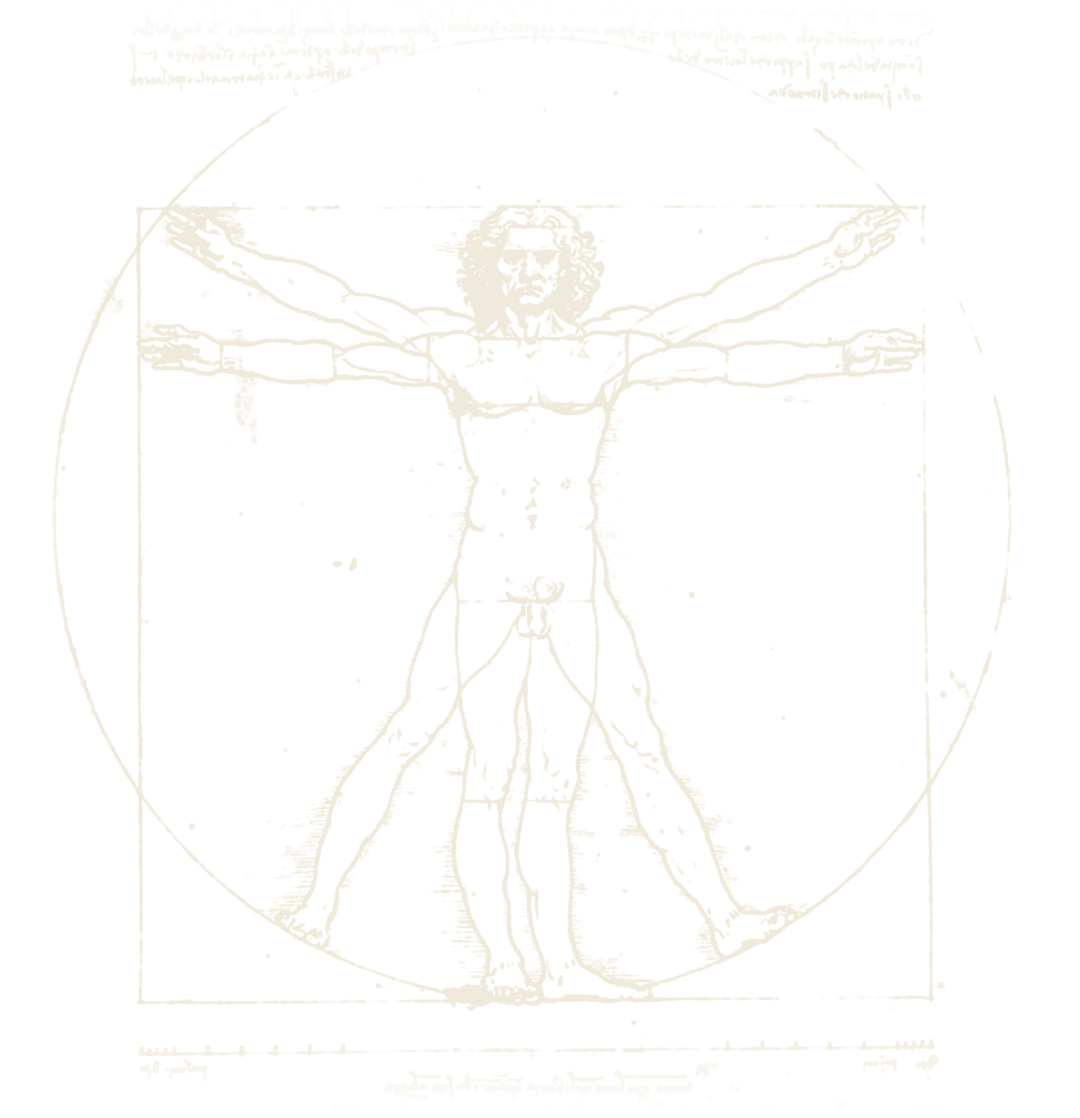
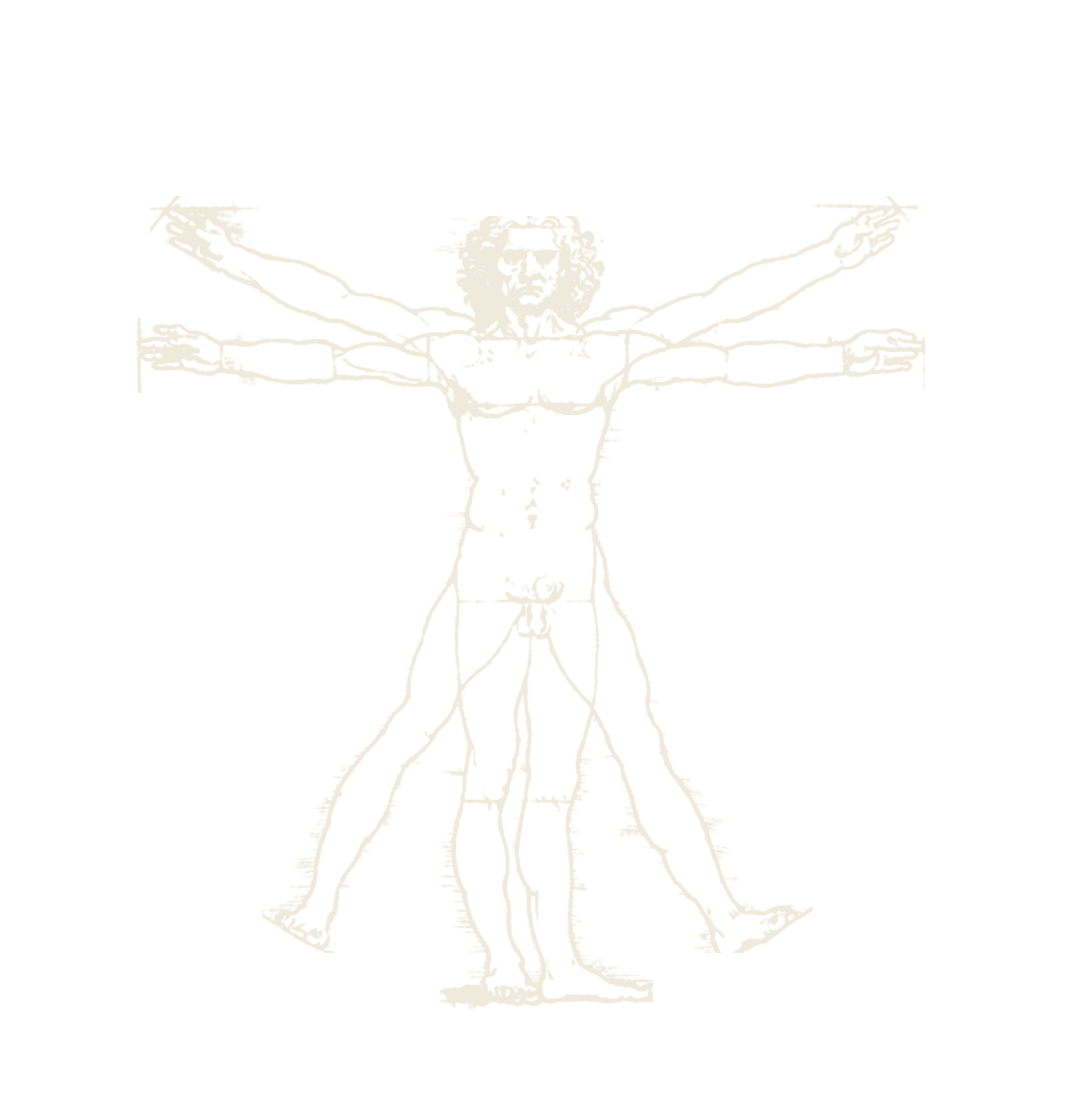
Vitruvian body map cleaned: only the contour lines remain (no paper specks, hatching, script or scale text), the circle and square redrawn as clean hairlines, softer muscle glow
Claude-Session: https://claude.ai/code/session_01PHnae2mAkkwJU61sApCo4y

diff --git a/index.html b/index.html
@@ -373,7 +373,7 @@ textarea.field{padding:12px 14px;min-height:76px;resize:none;line-height:1.4}
 .up,.fs-r span:last-child .up{color:var(--t);font-weight:600;font-size:13px}
 
 /* ---- body ---- */
-.bmap{margin:6px calc(var(--g) * -1) 0;perspective:1400px}
+.bmap{margin:0 calc(var(--g) * -1) -14px;perspective:1400px}
 .vit-in{position:relative;aspect-ratio:1080/1118;will-change:transform}
 .vit.back .vit-in{transform:rotateY(180deg)}
 .vit img{position:absolute;inset:0;width:100%;height:100%;display:block;-webkit-user-select:none;user-select:none;pointer-events:none}
@@ -1956,7 +1956,7 @@ var VM = { front:[
     ["chest", "M456,334 Q492,324 529,338 L529,406 Q492,426 460,406 Z", 1], ["biceps", "M419,333 L338,337 L338,373 L419,367 Z", 1],
     ["forearms", "M336,339 L226,345 L226,371 L336,373 Z", 1], ["abs", "M505,420 H530 V592 L513,586 Q502,500 505,420 Z", 1],
     ["obliques", "M468,415 L503,420 Q500,500 511,586 L478,560 Q470,490 468,415 Z", 1],
-    ["quads", "M466,610 L528,612 L528,790 L490,790 Q470,700 466,610 Z", 1], ["shins", "M492,825 L530,825 L528,960 L502,960 Z", 1] ],
+    ["quads", "M470,622 Q498,612 524,624 Q527,710 518,786 L494,786 Q474,706 470,622 Z", 1], ["shins", "M492,825 L530,825 L528,960 L502,960 Z", 1] ],
   back:[
     ["traps", "M530,290 L570,326 L600,336 L548,372 L530,440 L512,372 L460,336 L490,326 Z", 0], ["reardelts", "M418,330 Q435,316 456,330 L460,374 Q436,380 420,364 Z", 1],
     ["upperback", "M462,340 L512,378 L524,440 L462,405 Z", 1], ["lats", "M464,412 L524,448 L526,470 L518,560 L490,566 Q470,490 464,412 Z", 1],
@@ -1966,22 +1966,24 @@ var VM = { front:[
 function vitFig(side, mus, sel){
   var glow = "", core = "", hit = "", both = function(x){ return x + '<g transform="translate(1060,0) scale(-1,1)">' + x + '</g>'; };
   VM[side].forEach(function(sh){ var m = sh[0], v = mus[m] || 0, on = !!sel[m], w = function(x){ return sh[2] ? both(x) : x; };
-    if(on || v){ glow += w('<path d="' + sh[1] + '" fill="#14D3C2" fill-opacity="' + (on ? 1 : Math.min(.8, 0.34 + v / 26).toFixed(2)) + '"/>'); }
-    if(on) core += w('<path d="' + sh[1] + '" fill="#7FF2E6" fill-opacity=".5"/>');
+    if(on || v){ glow += w('<path d="' + sh[1] + '" fill="#14D3C2" fill-opacity="' + (on ? .8 : Math.min(.6, 0.26 + v / 30).toFixed(2)) + '"/>'); }
+    if(on) core += w('<path d="' + sh[1] + '" fill="#7FF2E6" fill-opacity=".22"/>');
     hit += w('<path data-act="bmus" data-m="' + m + '" d="' + sh[1] + '" fill="#000" fill-opacity="0" stroke="#000" stroke-opacity="0" stroke-width="26" pointer-events="all"/>'); });
   return '<div class="vit' + (side === "back" ? " back" : "") + '"><div class="vit-in"><img src="vitruvian.webp" width="1080" height="1118" alt="Leonardo da Vinci, Vitruvian Man" decoding="async" draggable="false">' +
-    '<svg viewBox="0 0 1080 1118" role="img" aria-label="' + side + ' muscles, lit by sets in the last 7 days"><defs><filter id="vg" x="-40%" y="-40%" width="180%" height="180%"><feGaussianBlur stdDeviation="13"/></filter><filter id="vg2" x="-40%" y="-40%" width="180%" height="180%"><feGaussianBlur stdDeviation="5"/></filter></defs>' +
-    '<circle class="vit-c" cx="532" cy="521" r="478" fill="none" stroke="#14D3C2" stroke-opacity=".5" stroke-width="2.2" transform="rotate(-90 532 521)"/>' +
+    '<svg viewBox="0 0 1080 1118" role="img" aria-label="' + side + ' muscles, lit by sets in the last 7 days"><defs><filter id="vg" x="-40%" y="-40%" width="180%" height="180%"><feGaussianBlur stdDeviation="19"/></filter><filter id="vg2" x="-40%" y="-40%" width="180%" height="180%"><feGaussianBlur stdDeviation="9"/></filter></defs>' +
+    '<circle class="vit-c" cx="532" cy="521" r="478" fill="none" stroke="#14D3C2" stroke-opacity=".55" stroke-width="1.8" transform="rotate(-90 532 521)"/>' +
+    '<rect class="vit-q" x="139" y="207" width="786" height="793" fill="none" stroke="#EDE6D6" stroke-opacity=".42" stroke-width="1.6"/>' +
     '<g class="vit-g" filter="url(#vg)">' + glow + '</g><g class="vit-g" filter="url(#vg2)">' + core + '</g>' + hit + '</svg></div></div>';
 }
 /* entering: the circle is struck first, then the ink blooms outward from the navel, then the muscles light. Turning to the back turns the sheet over */
 var VITK = "";
 function vitMaybe(type){
   if(type !== "body"){ VITK = ""; return; } var k = "body:" + (UI.bside || "front"); if(k === VITK) return; var first = VITK === ""; VITK = k;
-  var box = view.querySelector(".vit-in"); if(!box || calm) return; var img = box.querySelector("img"), c = box.querySelector(".vit-c"), gs = box.querySelectorAll(".vit-g"), EZ = "cubic-bezier(.22,1,.36,1)";
+  var box = view.querySelector(".vit-in"); if(!box || calm) return; var img = box.querySelector("img"), c = box.querySelector(".vit-c"), q = box.querySelector(".vit-q"), gs = box.querySelectorAll(".vit-g"), EZ = "cubic-bezier(.22,1,.36,1)";
   if(first){
     var L = Math.ceil(2 * Math.PI * 478) + 4;
-    c.animate([{ strokeDasharray:L + "px", strokeDashoffset:L + "px", strokeOpacity:.9 }, { strokeDasharray:L + "px", strokeDashoffset:"0px", strokeOpacity:.9, offset:.8 }, { strokeDasharray:L + "px", strokeDashoffset:"0px", strokeOpacity:.5 }], { duration:1900, delay:200, easing:"cubic-bezier(.5,0,.15,1)", fill:"backwards" });
+    c.animate([{ strokeDasharray:L + "px", strokeDashoffset:L + "px", strokeOpacity:.9 }, { strokeDasharray:L + "px", strokeDashoffset:"0px", strokeOpacity:.9, offset:.8 }, { strokeDasharray:L + "px", strokeDashoffset:"0px", strokeOpacity:.55 }], { duration:1900, delay:200, easing:"cubic-bezier(.5,0,.15,1)", fill:"backwards" });
+    q.animate([{ strokeDasharray:"3160px", strokeDashoffset:"3160px" }, { strokeDasharray:"3160px", strokeDashoffset:"0px" }], { duration:1900, delay:700, easing:"cubic-bezier(.5,0,.15,1)", fill:"backwards" });
     img.animate([{ clipPath:"circle(0% at 49.3% 46.6%)", opacity:0, filter:"blur(6px) brightness(1.7)" }, { opacity:1, offset:.35 }, { clipPath:"circle(78% at 49.3% 46.6%)", opacity:1, filter:"blur(0px) brightness(1)" }], { duration:2600, delay:900, easing:"cubic-bezier(.3,0,.15,1)", fill:"backwards" });
     [].forEach.call(gs, function(g){ g.animate([{ opacity:0 }, { opacity:1 }], { duration:1400, delay:2700, easing:EZ, fill:"backwards" }); });
   } else {

diff --git a/sw.js b/sw.js
@@ -1,7 +1,7 @@
 /* Offline copy of the app.
    The app page itself: always try the network first (so a new version shows the moment you open it),
    fall back to the saved copy when there's no signal. Everything else: saved copy first. */
-var CACHE = "wake-v199";
+var CACHE = "wake-v200";
 var CORE = ["./", "index.html", "manifest.webmanifest", "icon-w-180.png", "icon-w-192.png", "icon-w-512.png", "fonts/inter-tight.woff2", "fonts/inter-tight-macron.woff2", "fonts/wake-greek.woff2", "fonts/wake-kanji.woff2", "fonts/wake-sanskrit.woff2", "vitruvian.webp"];
 self.addEventListener("install", function(e){
   e.waitUntil(caches.open(CACHE).then(function(c){
